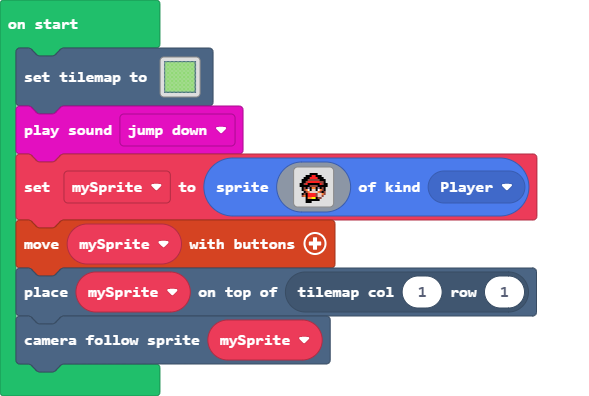
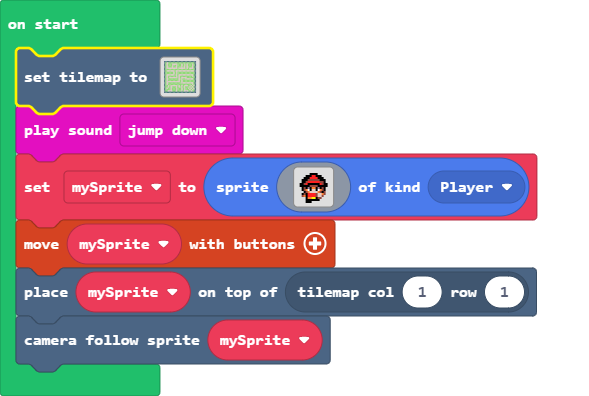
build maze

Changed region(s): [[0.0, 0.0909, 0.3667, 0.303]]

diff --git a/main.ts b/main.ts
@@ -1,29 +1,29 @@
-tiles.setTilemap(tiles.createTilemap(hex`18001800030707070707070707070707070707070707070707070702090101010101010101010101010101010101010101010106090101010101010101010101010101010101010101010106090101010101010101010101010101010101010101010106090101010101010101010101010101010101010101010106090101010101010101010101010101010101010101010106090101010101010101010101010101010101010101010106090101010101010101010101010101010101010101010106090101010101010101010101010101010101010101010106090101010101010101010101010101010101010101010106090101010101010101010101010101010101010101010106090101010101010101010101010101010101010101010106090101010101010101010101010101010101010101010106090101010101010101010101010101010101010101010106090101010101010101010101010101010101010101010106090101010101010101010101010101010101010101010106090101010101010101010101010101010101010101010106090101010101010101010101010101010101010101010106090101010101010101010101010101010101010101010106090101010101010101010101010101010101010101010106090101010101010101010101010101010101010101010106090101010101010101010101010101010101010101010106090101010101010101010101010101010101010101010106040808080808080808080808080808080808080808080805`, img`
[1 lines of base64/hex data omitted]
     222222222222222222222222
+    2.2....................2
+    2.2...2222...2.2.2...2.2
+    2.2...2..2...2.2.2...2.2
+    2.2...2..2...2.2.2...2.2
+    2.22222222.22222.2.222.2
     2......................2
-    2......................2
-    2......................2
-    2......................2
-    2......................2
-    2......................2
-    2......................2
-    2......................2
-    2......................2
-    2......................2
-    2......................2
-    2......................2
-    2......................2
-    2......................2
-    2......................2
-    2......................2
-    2......................2
-    2......................2
-    2......................2
-    2......................2
-    2......................2
-    2......................2
+    2.222222.222222222222222
+    2......2.2.............2
+    2......2.2.............2
+    2.222222.2.22222222222.2
+    2.2......2.2.........2.2
+    2.2.222222.2.2222......2
+    2.2........2.2..222222.2
+    2.2........2.2.........2
+    2.2222222222.2.........2
+    2.2..........222222222.2
+    2.2..............2...2.2
+    2..2.22222.2.2.222.2.2.2
+    2..2.2...2.2.2.222.2.2.2
+    2.2..2...2...2.222.2...2
+    2....2...2...2.222.22222
+    2..222...2...2.222.....2
     222222222222222222222222
-    `, [myTiles.transparency16,sprites.castle.tileGrass2,sprites.dungeon.greenInnerNorthEast,sprites.dungeon.greenInnerNorthWest,sprites.dungeon.greenInnerSouthWest,sprites.dungeon.greenInnerSouthEast,sprites.dungeon.greenOuterWest1,sprites.dungeon.greenOuterSouth1,sprites.dungeon.greenOuterNorth0,sprites.dungeon.greenOuterEast0], TileScale.Sixteen))
+    `, [myTiles.transparency16,sprites.castle.tileGrass2,sprites.dungeon.greenInnerNorthEast,sprites.dungeon.greenInnerNorthWest,sprites.dungeon.greenInnerSouthWest,sprites.dungeon.greenInnerSouthEast,sprites.dungeon.greenOuterWest1,sprites.dungeon.greenOuterSouth1,sprites.dungeon.greenOuterNorth0,sprites.dungeon.greenOuterEast0,sprites.dungeon.floorLight0], TileScale.Sixteen))
 music.jumpDown.play()
 let mySprite = sprites.create(img`
     . . . . . . . . . . . . . . . . 
